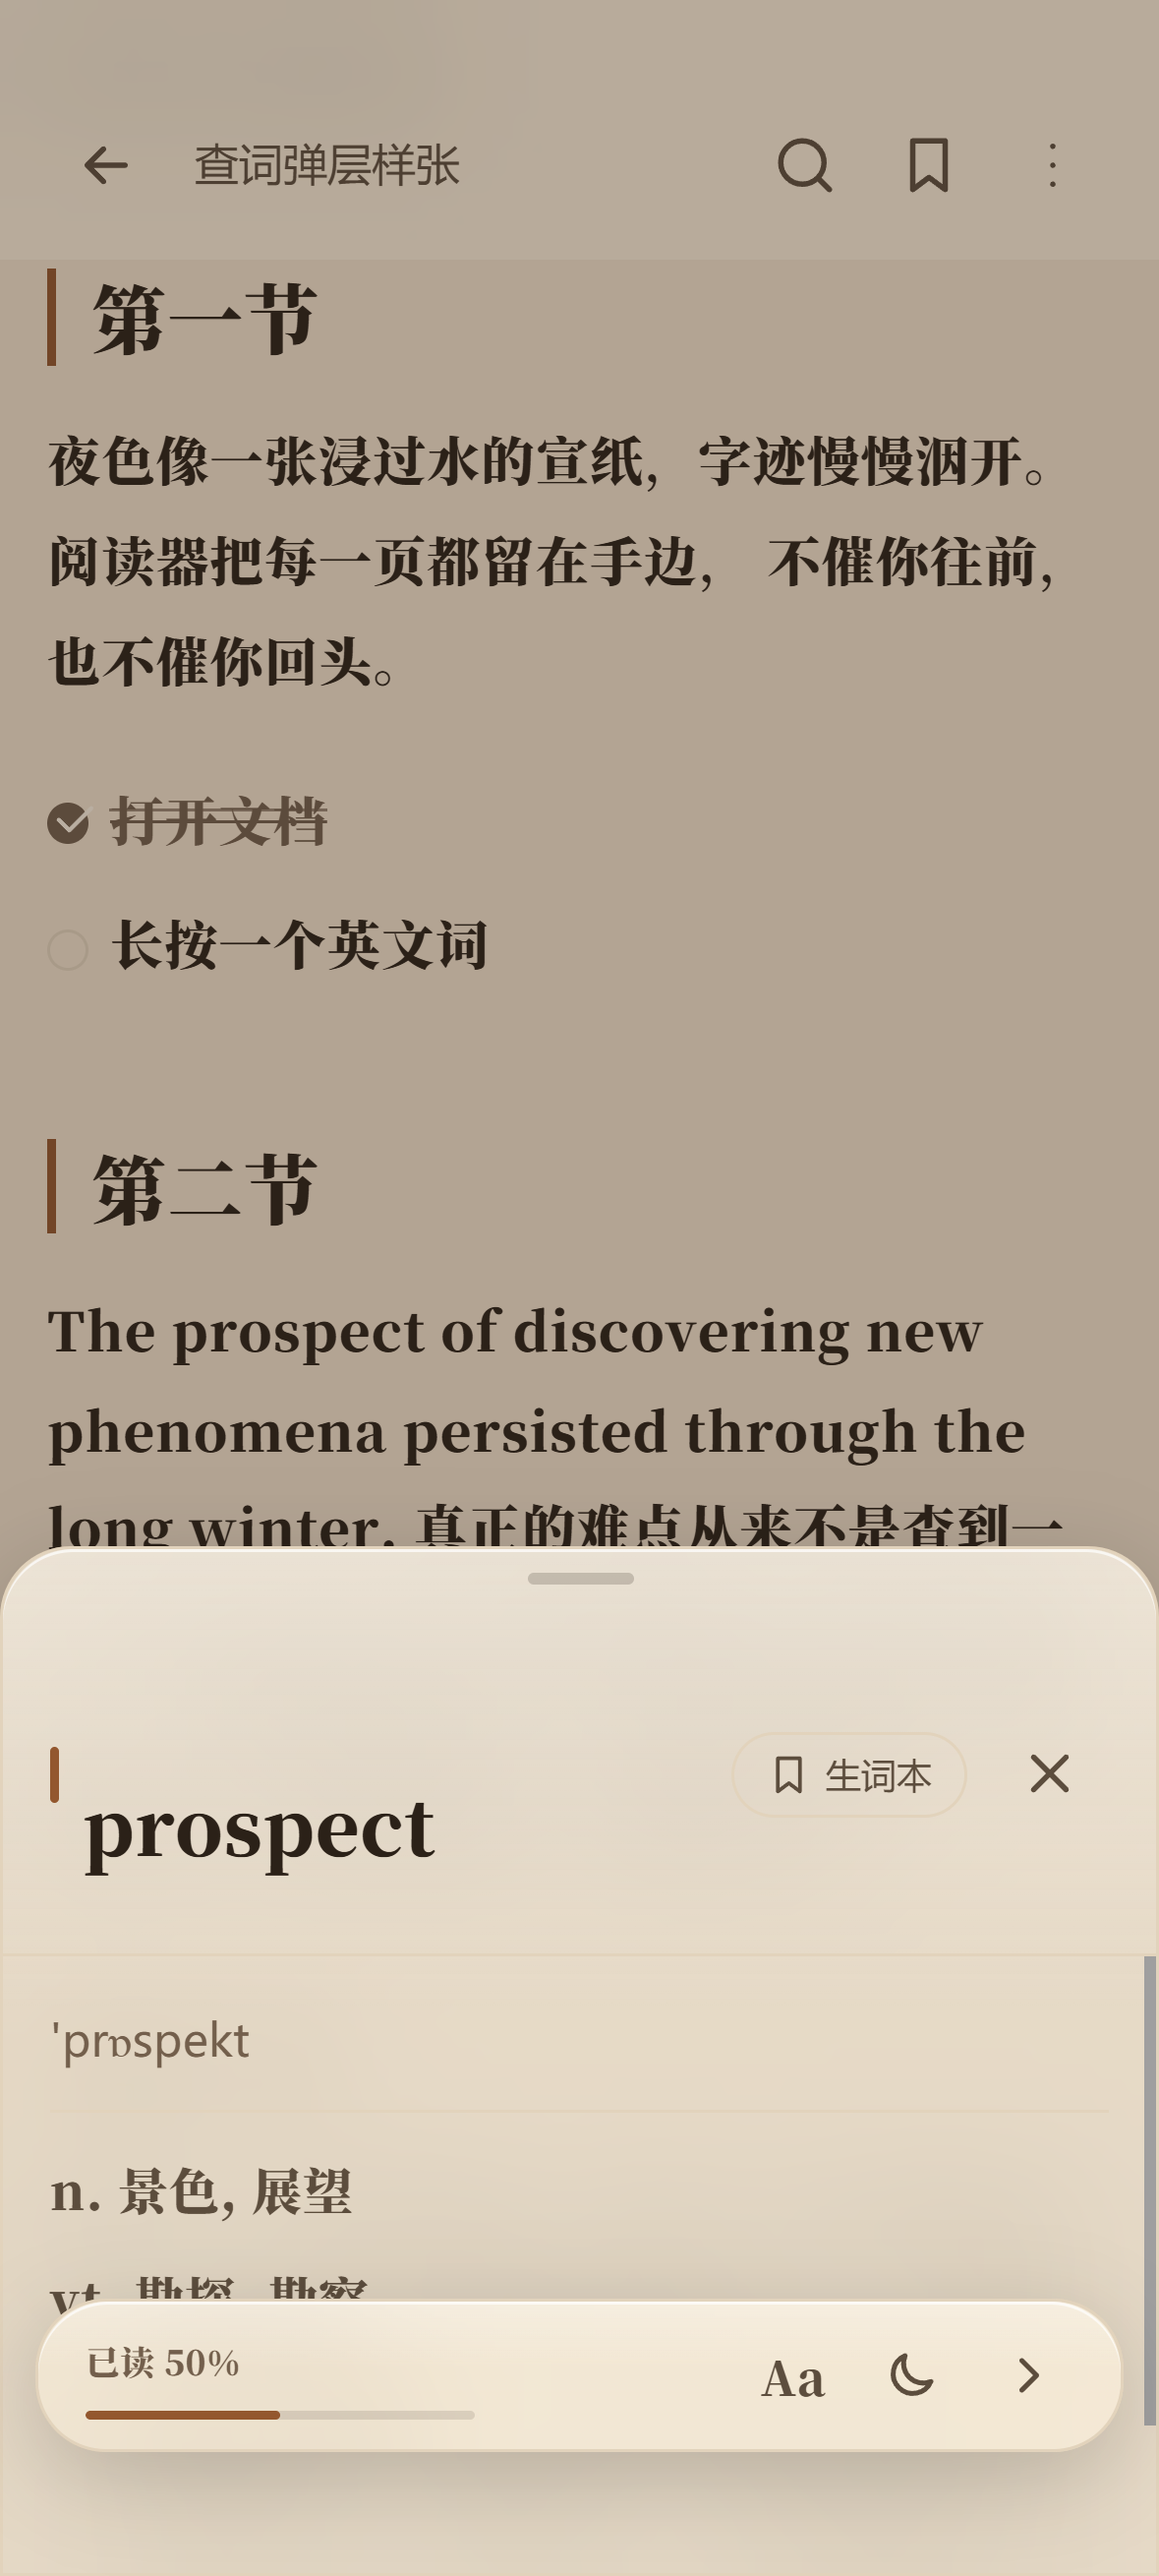
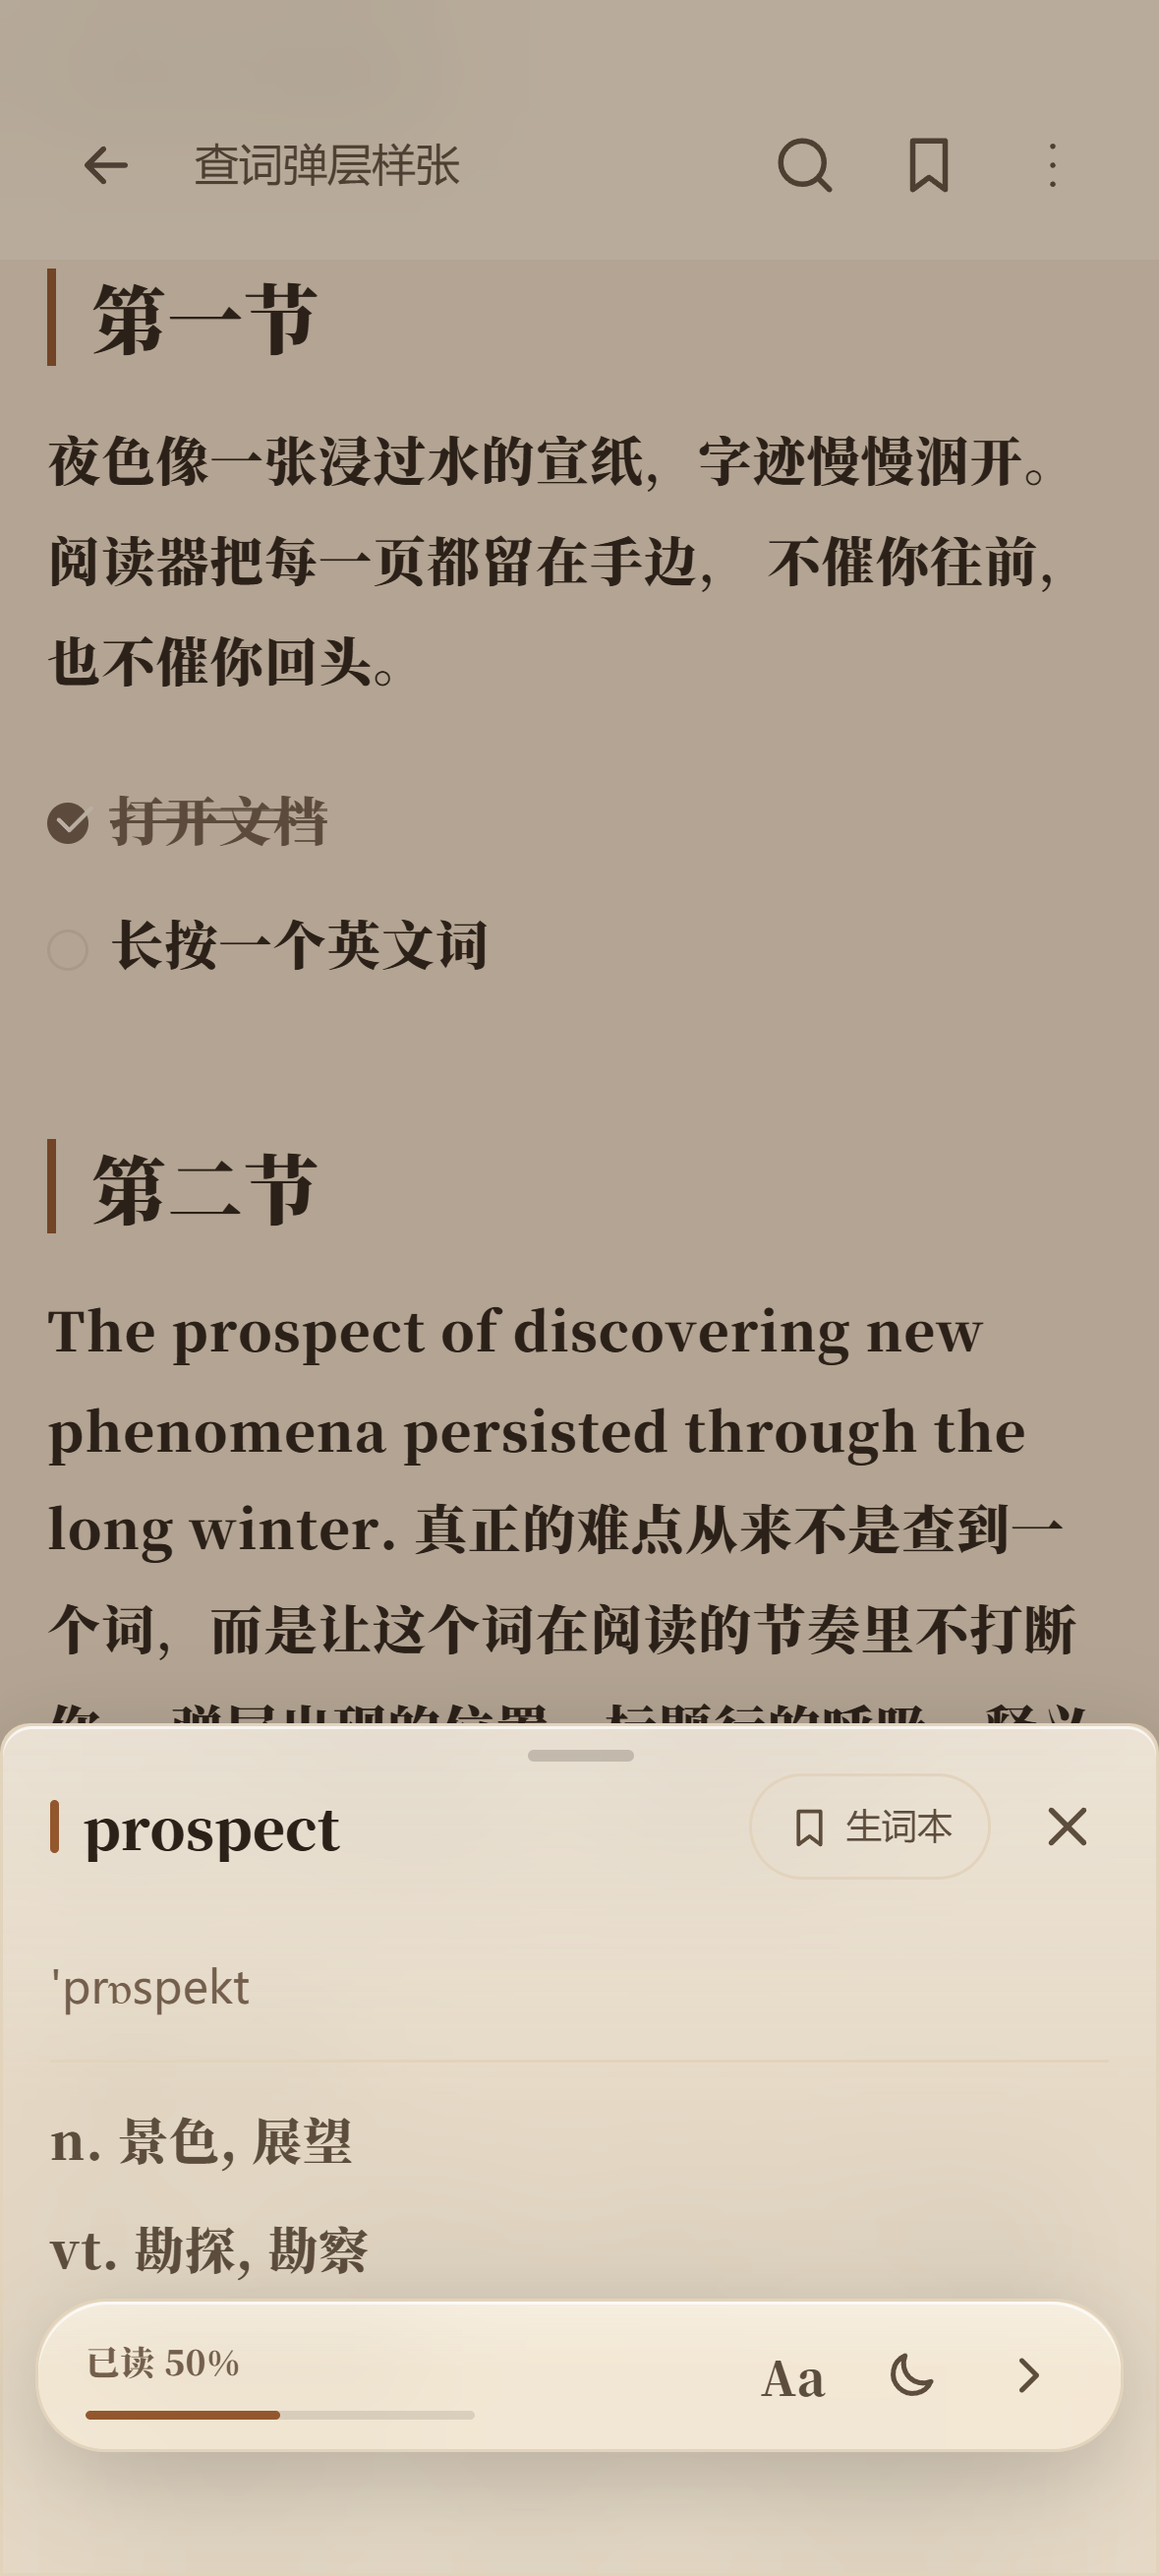
fix(lookup#3): 标题行垂直居中，按钮视觉 36px、点击区 44px
问题（打包产物实测）：
  - 生词本按钮高 29px、关闭按钮 40px，两者点击区都 < 44px
  - 标题`.drawer__title` 被 `.article h2` 命中，字号/竖线/下边框全串味
  - `.lookup-panel .drawer__head` 写了 flex-wrap: wrap + row-gap，
    窄屏时按钮会掉到第二行、与标题错位

改动：
- 标题行 align-items: center、flex-wrap: nowrap、min-height: 44px、去下边框
- 按钮统一类 `.lookup__action`：height 36px / min-height 36px、line-height 1
- 点击区用 `::after { inset: -4px }` 扩到 44×44 —— 只吃点击不占布局，
  这样按钮视觉仍是 36px，不会把标题行顶高
- 关闭键 `.lookup__close` 视觉 36×36（区别于普通 icon-btn 的 40×40）
- 标题复位正文排版：font-size 1.05em、line-height 1.3、无 padding/border，
  窄屏 min-width: 0 + 省略号

打包产物断言：
  标题行 align-items=center ✓ / 生词本 36.0px ✓ / 关闭 36.0px ✓ /
  两个点击区均 44.0px ✓

Changed region(s): [[0.0, 0.5876, 1.0, 0.8969], [0.9771, 0.7423, 1.0, 0.9588]]

diff --git a/web/src/styles/dict.css b/web/src/styles/dict.css
@@ -46,12 +46,18 @@
 
 /*
  * 卡片挂在 .article 里，正文的 `.article h2` / `.article p` 会漏进来：
- * 标题会莫名多出一条强调竖线、段间距也会串味。这里把正文排版按 scoped 复位，
- * 强调竖线改成卡片自己的显式元素（见下），不再依赖正文规则偶然命中。
+ * 标题会莫名变成正文 H2 的字号、多出强调竖线与下边框（实测截图里
+ * 标题被撑成 28px 并带一条横线）。这里把正文排版按 scoped 复位，
+ * 强调竖线改成卡片自己的显式元素（.lookup__accent），不再依赖正文规则偶然命中。
  */
 .lookup-panel .drawer__title {
-  padding-left: 0;
-  border-left: 0;
+  margin: 0;
+  padding: 0;
+  border: 0;
+  font-size: 1.05em;
+  font-weight: 700;
+  line-height: 1.3;
+  letter-spacing: 0;
   color: var(--ink);
 }
 
@@ -160,27 +166,77 @@
 }
 
 .lookup-panel .drawer__head {
-  flex-wrap: wrap;
-  row-gap: var(--sp-1);
+  /* 标题行只放「竖线 + 词 + 生词本 + 关闭」：多成分时不许折行，
+   * 否则按钮会被挤到第二行、与标题错位。窄屏靠标题 min-width: 0 + 省略号收。 */
+  flex-wrap: nowrap;
+  align-items: center;
+  min-height: 44px;
+  padding: 0 var(--sp-3) var(--sp-2) var(--sp-4);
+  border-bottom: 0;
 }
 
-.lookup__save {
+/*
+ * 标题行的点击区（下拉关闭）也要够大：44px 起步。
+ * 用 min-height 而不是 padding 撑，避免把弹层顶部又顶高。
+ */
+.lookup-panel .drawer__title {
+  min-width: 0;
+  overflow: hidden;
+  text-overflow: ellipsis;
+  white-space: nowrap;
+}
+
+/*
+ * 按钮统一：视觉高度 36px、点击区 44px。
+ *
+ * 点击区靠 ::after 的负 inset 扩出去，而不是把按钮真做成 44px 高 ——
+ * 后者会把标题行顶到 44px 以上、按钮在视觉上与标题失衡。
+ * 负 inset 只吃点击，不占布局（position: absolute 脱流）。
+ */
+.lookup-panel .lookup__action {
+  position: relative;
+  flex: 0 0 auto;
   display: inline-flex;
   align-items: center;
+  justify-content: center;
   gap: 5px;
-  margin-left: auto;
-  padding: 6px 11px;
+  height: 36px;
+  min-height: 36px;
+  margin: 0;
+  padding: 0 var(--sp-3);
   border: var(--hairline-width) solid var(--rule);
   border-radius: var(--r-pill);
   background: transparent;
   color: var(--ink-soft);
   font-family: var(--font-sans);
   font-size: 12px;
+  line-height: 1;
+  letter-spacing: 0;
   cursor: pointer;
   -webkit-tap-highlight-color: transparent;
   transition: background var(--motion-fade-dur) var(--ease-out),
     border-color var(--motion-fade-dur) var(--ease-out),
     color var(--motion-fade-dur) var(--ease-out);
+}
+
+.lookup-panel .lookup__action::after {
+  content: '';
+  position: absolute;
+  inset: -4px;
+  border-radius: inherit;
+}
+
+/* 关闭键是图标按钮：视觉 36×36、点击区 44×44，与其他位置的 icon-btn 区分开 */
+.lookup-panel .lookup__close {
+  flex: 0 0 36px;
+  width: 36px;
+  height: 36px;
+  padding: 0;
+  border-color: transparent;
+}
+
+.lookup__save {
+  margin-left: auto;
 }
 
 .lookup__save .icon {

diff --git a/web/src/views/lookup.ts b/web/src/views/lookup.ts
@@ -118,7 +118,9 @@ function renderCard(
   const saveBtn = el(
     'button',
     {
-      class: saved ? 'lookup__save lookup__save--on' : 'lookup__save',
+      class: saved
+        ? 'lookup__action lookup__save lookup__save--on'
+        : 'lookup__action lookup__save',
       type: 'button',
       'data-testid': 'lookup-save-word',
       'aria-pressed': saved ? 'true' : 'false',
@@ -134,7 +136,9 @@ function renderCard(
       translation: entry.translation,
     });
     const nowSaved = activeHooks?.isSaved(normalized) ?? !saved;
-    saveBtn.className = nowSaved ? 'lookup__save lookup__save--on' : 'lookup__save';
+    saveBtn.className = nowSaved
+      ? 'lookup__action lookup__save lookup__save--on'
+      : 'lookup__action lookup__save';
     saveBtn.setAttribute('aria-pressed', nowSaved ? 'true' : 'false');
     saveBtn.setAttribute('aria-label', nowSaved ? '从生词本移除' : '加入生词本');
     saveBtn.replaceChildren(
@@ -159,7 +163,7 @@ function renderCard(
     el(
       'button',
       {
-        class: 'icon-btn',
+        class: 'icon-btn lookup__action lookup__close',
         type: 'button',
         'data-testid': 'lookup-close',
         'aria-label': '关闭',
